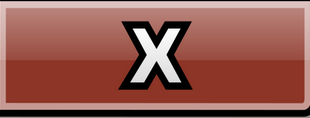
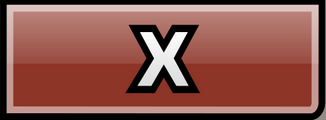
win 7 style enhancements

Changed region(s): [[0.0, 0.0, 1.0, 1.0]]

diff --git a/dist/checkmate-in-one.e31bb0bc.css b/dist/checkmate-in-one.e31bb0bc.css
@@ -314,12 +314,12 @@ tileos-is-the-best[data-theme="7"] tileos-app-header button {
   text-shadow: 0px 0px 2px black;
 }
 tileos-is-the-best[data-theme="7"] tileos-app-header button[aria-label=Close] {
-  height: 13px;
+  height: 14px;
   width: 35px;
   margin-right: 5px;
   border-radius: 0px 0px 5px 0px;
   background-image: url("/close.5ac3aaea.png");
-  background-size: cover;
+  background-size: contain;
   background-repeat: no-repeat;
 }
 tileos-is-the-best[data-theme="7"] tileos-app-header button[aria-label=Close]:hover {
@@ -327,8 +327,8 @@ tileos-is-the-best[data-theme="7"] tileos-app-header button[aria-label=Close]:ho
 }
 tileos-is-the-best[data-theme="7"] tileos-app-header button[aria-label=Minimize] {
   border-radius: 0px 0px 0px 5px;
-  height: 13px;
-  width: 15px;
+  height: 14px;
+  width: 22px;
   border-radius: 0px 0px 0px 5px;
   background-image: url("/minimize.4fb3c1ea.png");
   background-size: cover;
@@ -341,6 +341,7 @@ tileos-is-the-best[data-theme="7"] tileos-app-header button[aria-label=Minimize]
 tileos-is-the-best[data-theme="7"] tileos-app {
   box-shadow: 0px 0px 5px black;
   border: solid 0.5px white;
+  border-radius: 5px;
 }
 tileos-is-the-best[data-theme="7"] tileos-dock {
   background: rgba(255, 255, 255, 0.3);
@@ -352,13 +353,18 @@ tileos-is-the-best[data-theme="7"] tileos-dock {
   justify-content: center;
   align-items: center;
 }
-tileos-is-the-best[data-theme="7"] tileos-dock .start-text, tileos-is-the-best[data-theme="7"] tileos-dock .start-icon, tileos-is-the-best[data-theme="7"] tileos-dock .icon-text {
+tileos-is-the-best[data-theme="7"] tileos-dock .start-text,
+tileos-is-the-best[data-theme="7"] tileos-dock .start-icon,
+tileos-is-the-best[data-theme="7"] tileos-dock .icon-text {
   display: none;
 }
 tileos-is-the-best[data-theme="7"] tileos-dock .icon {
   height: 30px;
   width: 30px;
   padding-right: 0px;
+}
+tileos-is-the-best[data-theme="7"] tileos-dock .focus {
+  background: linear-gradient(0deg, #0085ff 0%, #fff 100%);
 }
 tileos-is-the-best[data-theme="7"] tileos-dock button[aria-label="Start button"] {
   background: url("https://external-content.duckduckgo.com/iu/?u=https%3A%2F%2Ftaylorrockhill.files.wordpress.com%2F2012%2F02%2Fwindows_7_orb_icon_by_skyangels.png&f=1&nofb=1");
@@ -372,6 +378,11 @@ tileos-is-the-best[data-theme="7"] tileos-dock button[aria-label="Start button"]
   margin: 0px;
   margin-right: 15px;
 }
+tileos-is-the-best[data-theme="7"] tileos-dock button[aria-label="Start button"]:hover {
+  background: url("https://external-content.duckduckgo.com/iu/?u=https%3A%2F%2Ftaylorrockhill.files.wordpress.com%2F2012%2F02%2Fwindows_7_orb_icon_by_skyangels.png&f=1&nofb=1");
+  background-repeat: no-repeat;
+  background-size: contain;
+}
 tileos-is-the-best[data-theme="7"] tileos-dock button {
   background: linear-gradient(0deg, #3b6b97 0%, #3898e3 35%, #aec9eb 100%);
   border: 0.25px solid white;
@@ -381,6 +392,9 @@ tileos-is-the-best[data-theme="7"] tileos-dock button {
   margin: 2px;
   border-radius: 3px;
   height: 100%;
+}
+tileos-is-the-best[data-theme="7"] tileos-dock button:hover {
+  background: linear-gradient(0deg, #0085ff 0%, #fff 100%);
 }
 @supports (backdrop-filter: none) {
   tileos-is-the-best[data-theme="7"] tileos-app {
@@ -399,7 +413,8 @@ tileos-is-the-best[data-theme=disaster] {
   animation: more-crazy linear 5s infinite;
 }
 tileos-is-the-best[data-theme=disaster] tileos-desktop,
-tileos-is-the-best[data-theme=disaster] tileos-dock {
+tileos-is-the-best[data-theme=disaster] tileos-dock,
+tileos-is-the-best[data-theme=disaster] tileos-app {
   display: none;
 }
 tileos-is-the-best[data-theme=disaster]::after {
@@ -456,6 +471,10 @@ body {
 
 .hide {
   display: none;
+}
+
+button {
+  cursor: pointer;
 }
 
 tileos-is-the-best {

diff --git a/styles/_seven.scss b/styles/_seven.scss
@@ -34,12 +34,12 @@ tileos-is-the-best[data-theme="7"] {
         }
 
         button[aria-label="Close"] {
-            height: 13px;
+            height: 14px;
             width: 35px;
             margin-right: 5px;
             border-radius: 0px 0px 5px 0px;
             background-image: url("./icons/seven/close.png");
-            background-size: cover;
+            background-size: contain;
             background-repeat: no-repeat;
 
             &:hover {
@@ -49,8 +49,8 @@ tileos-is-the-best[data-theme="7"] {
 
         button[aria-label="Minimize"] {
             border-radius: 0px 0px 0px 5px;
-            height: 13px;
-            width: 15px;
+            height: 14px;
+            width: 22px;
             border-radius: 0px 0px 0px 5px;
             background-image: url("./icons/seven/minimize.png");
             background-size: cover;
@@ -66,6 +66,7 @@ tileos-is-the-best[data-theme="7"] {
     tileos-app {
         box-shadow: 0px 0px 5px black;
         border: solid 0.5px white;
+        border-radius: 5px;
     }
 
     tileos-dock {
@@ -78,7 +79,9 @@ tileos-is-the-best[data-theme="7"] {
         justify-content: center;
         align-items: center;
 
-        .start-text, .start-icon, .icon-text {
+        .start-text,
+        .start-icon,
+        .icon-text {
             display: none;
         }
 
@@ -86,6 +89,10 @@ tileos-is-the-best[data-theme="7"] {
             height: 30px;
             width: 30px;
             padding-right: 0px;
+        }
+
+        .focus {
+            background: linear-gradient(0deg, #0085ff 0%, #fff 100%);
         }
 
         button[aria-label="Start button"] {
@@ -99,6 +106,12 @@ tileos-is-the-best[data-theme="7"] {
             border: none;
             margin: 0px;
             margin-right: 15px;
+
+            &:hover {
+                background: url("https://external-content.duckduckgo.com/iu/?u=https%3A%2F%2Ftaylorrockhill.files.wordpress.com%2F2012%2F02%2Fwindows_7_orb_icon_by_skyangels.png&f=1&nofb=1");
+                background-repeat: no-repeat;
+                background-size: contain;
+            }
         }
 
         button {
@@ -115,6 +128,10 @@ tileos-is-the-best[data-theme="7"] {
             margin: 2px;
             border-radius: 3px;
             height: 100%;
+        }
+
+        button:hover {
+            background: linear-gradient(0deg, #0085ff 0%, #fff 100%);
         }
     }
 

diff --git a/dist/checkmate-in-one.e31bb0bc.js b/dist/checkmate-in-one.e31bb0bc.js
@@ -23094,7 +23094,7 @@ var parent = module.bundle.parent;
 if ((!parent || !parent.isParcelRequire) && typeof WebSocket !== 'undefined') {
   var hostname = "" || location.hostname;
   var protocol = location.protocol === 'https:' ? 'wss' : 'ws';
-  var ws = new WebSocket(protocol + '://' + hostname + ':' + "54720" + '/');
+  var ws = new WebSocket(protocol + '://' + hostname + ':' + "55363" + '/');
 
   ws.onmessage = function (event) {
     checkedAssets = {};

diff --git a/dist/chessboard-1.0.0.c7f33d3d.js b/dist/chessboard-1.0.0.c7f33d3d.js
@@ -1752,7 +1752,7 @@ var parent = module.bundle.parent;
 if ((!parent || !parent.isParcelRequire) && typeof WebSocket !== 'undefined') {
   var hostname = "" || location.hostname;
   var protocol = location.protocol === 'https:' ? 'wss' : 'ws';
-  var ws = new WebSocket(protocol + '://' + hostname + ':' + "54720" + '/');
+  var ws = new WebSocket(protocol + '://' + hostname + ':' + "55363" + '/');
 
   ws.onmessage = function (event) {
     checkedAssets = {};

diff --git a/styles/_disaster.scss b/styles/_disaster.scss
@@ -6,7 +6,8 @@ tileos-is-the-best[data-theme="disaster"] {
     animation: more-crazy linear 5s infinite;
 
     tileos-desktop,
-    tileos-dock {
+    tileos-dock,
+    tileos-app {
         display: none;
     }
 

diff --git a/style.scss b/style.scss
@@ -16,6 +16,10 @@ body {
     display: none;
 }
 
+button {
+    cursor: pointer;
+}
+
 tileos-is-the-best {
     display: block;
     height: 100vh;
